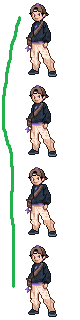
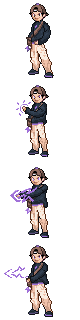
competences update pt1
new ranks, and new spritesheets for attack and error

diff --git a/src/data/skills.js b/src/data/skills.js
@@ -6,8 +6,8 @@ export const skills = [
   { name: "JavaScript", xp: 1190, category: "dev" },
   { name: "Unity", xp: 737, category: "dev" },
   { name: "C#", xp: 806, category: "dev" },
-  { name: "Astro", xp: 95, category: "dev" },
-  { name: "Java", xp: 0, category: "dev" },
+  { name: "Astro", xp: 45, category: "dev" },
+  { name: "Java", xp: 45, category: "dev" },
 
   { name: "Blender", xp: 30, category: "creation" },
   { name: "Blockbench", xp: 100, category: "creation" },
@@ -20,7 +20,7 @@ export const skills = [
   { name: "Autonomie", xp: 750, category: "soft" },
 ];
 
-const XP_PER_PROJECT_SKILL = 40;
+const XP_PER_PROJECT_SKILL = 20;
 
 const skillByProjectTag = new Map([
   ["html", "HTML/CSS"],

diff --git a/src/scripts/skill_rank.js b/src/scripts/skill_rank.js
@@ -46,8 +46,9 @@ const ranks = [
   "Argent",
   "Or",
   "Platine",
+  "Rubis",
   "Diamant",
-  "Ruthénium",
+  "Émeraude",
   "Luxerite"
 ];
 
